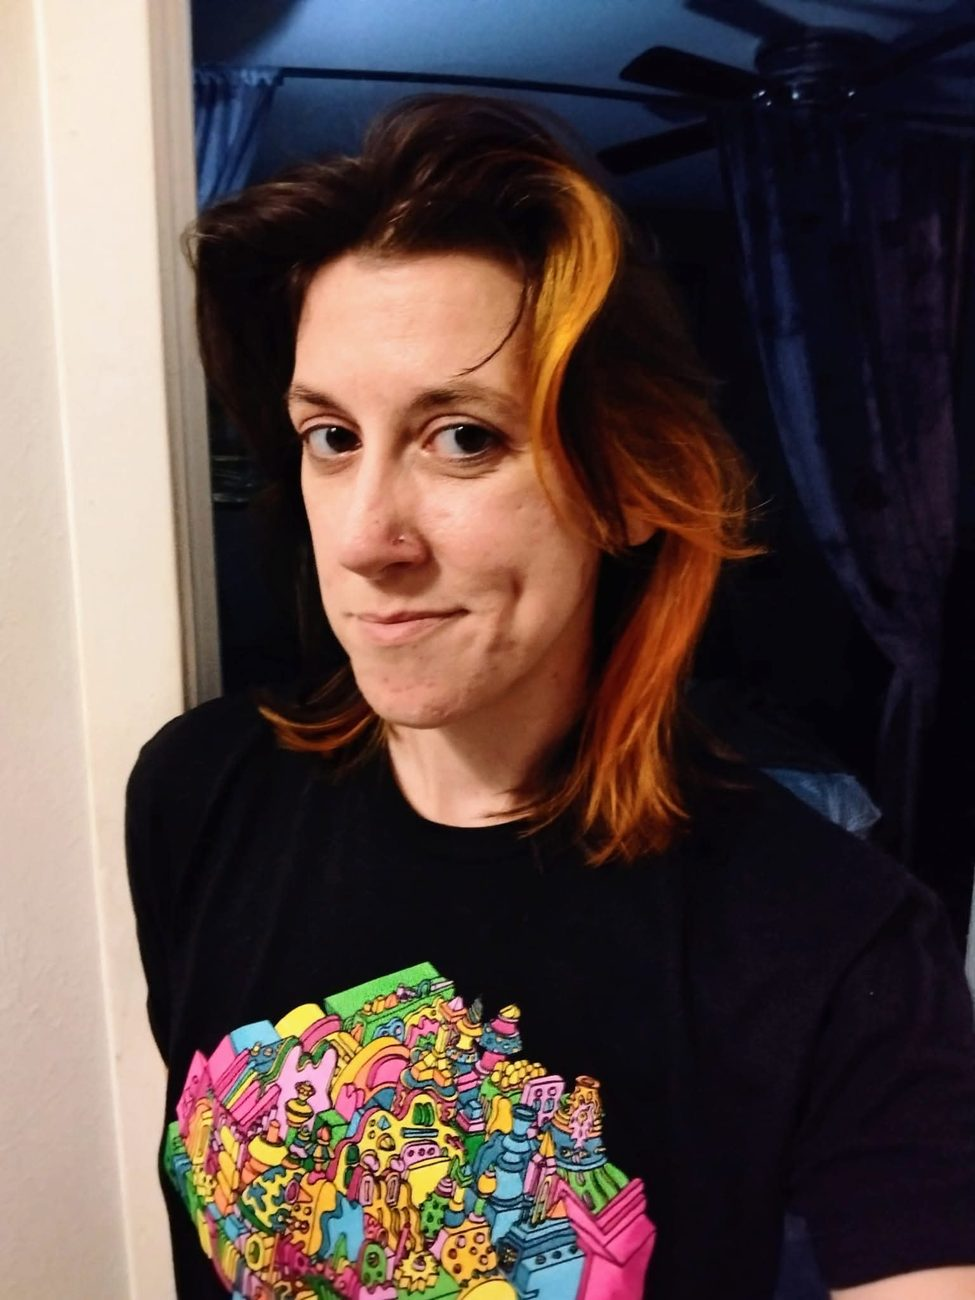
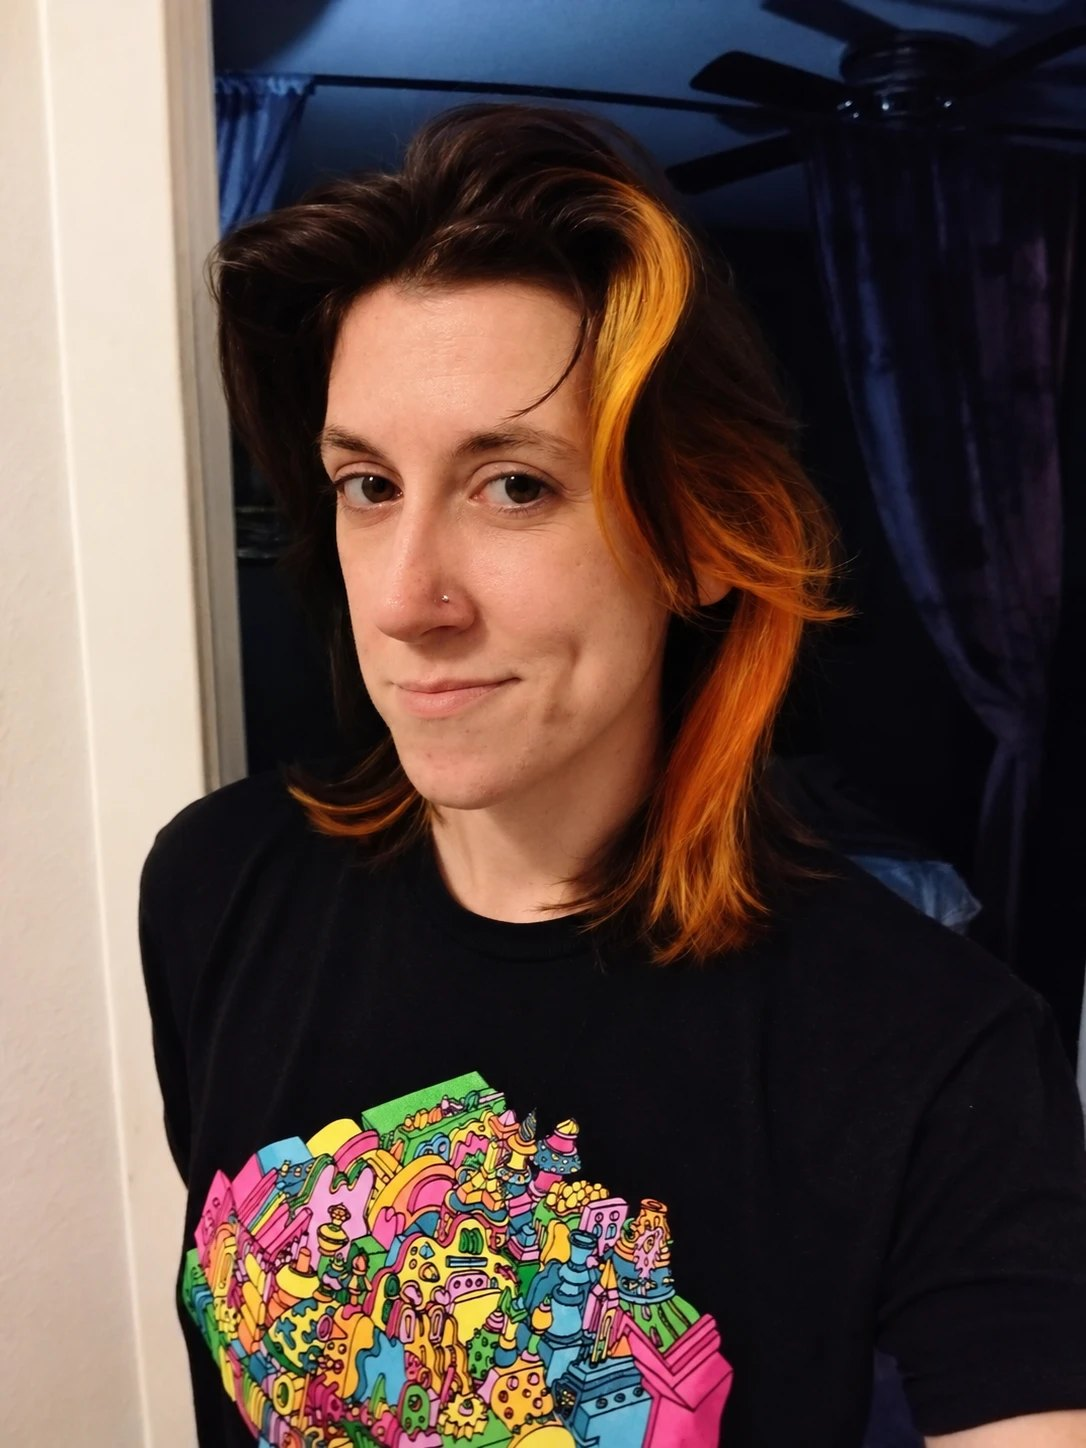
Use the new portrait on the day side and the link preview card
Claude-Session: https://claude.ai/code/session_01DgCLhtag71TBe2rjymrTWz

diff --git a/index.html b/index.html
@@ -124,7 +124,7 @@
       <div class="hero__plate">
         <div class="tape" aria-hidden="true"></div>
         <figure class="taped">
-          <img src="images/ariel-portrait.jpg" alt="Ariel smiling, with dark hair and a bright orange streak, wearing a colorful illustrated t-shirt" width="975" height="1300">
+          <img src="images/ariel-portrait.jpg" alt="Ariel smiling, with dark hair and a bright orange streak, wearing a colorful illustrated t-shirt" width="1086" height="1448">
           <figcaption>Fig. 1. The specimen, at ease.</figcaption>
         </figure>
         <p class="scribble scribble--a" aria-hidden="true">seasonal plumage ↙</p>
